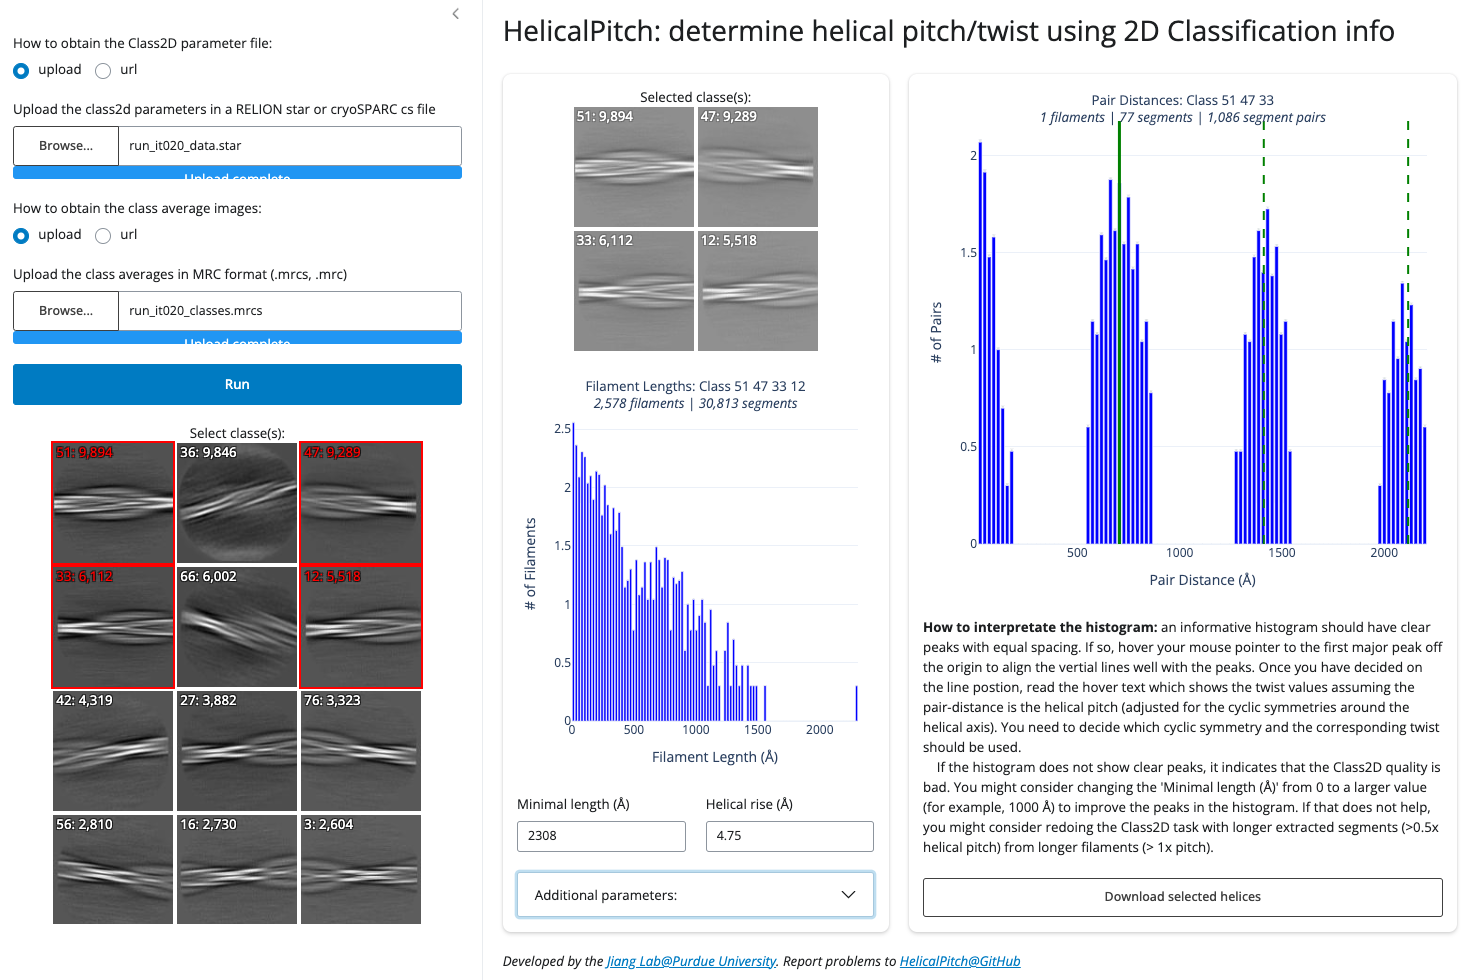
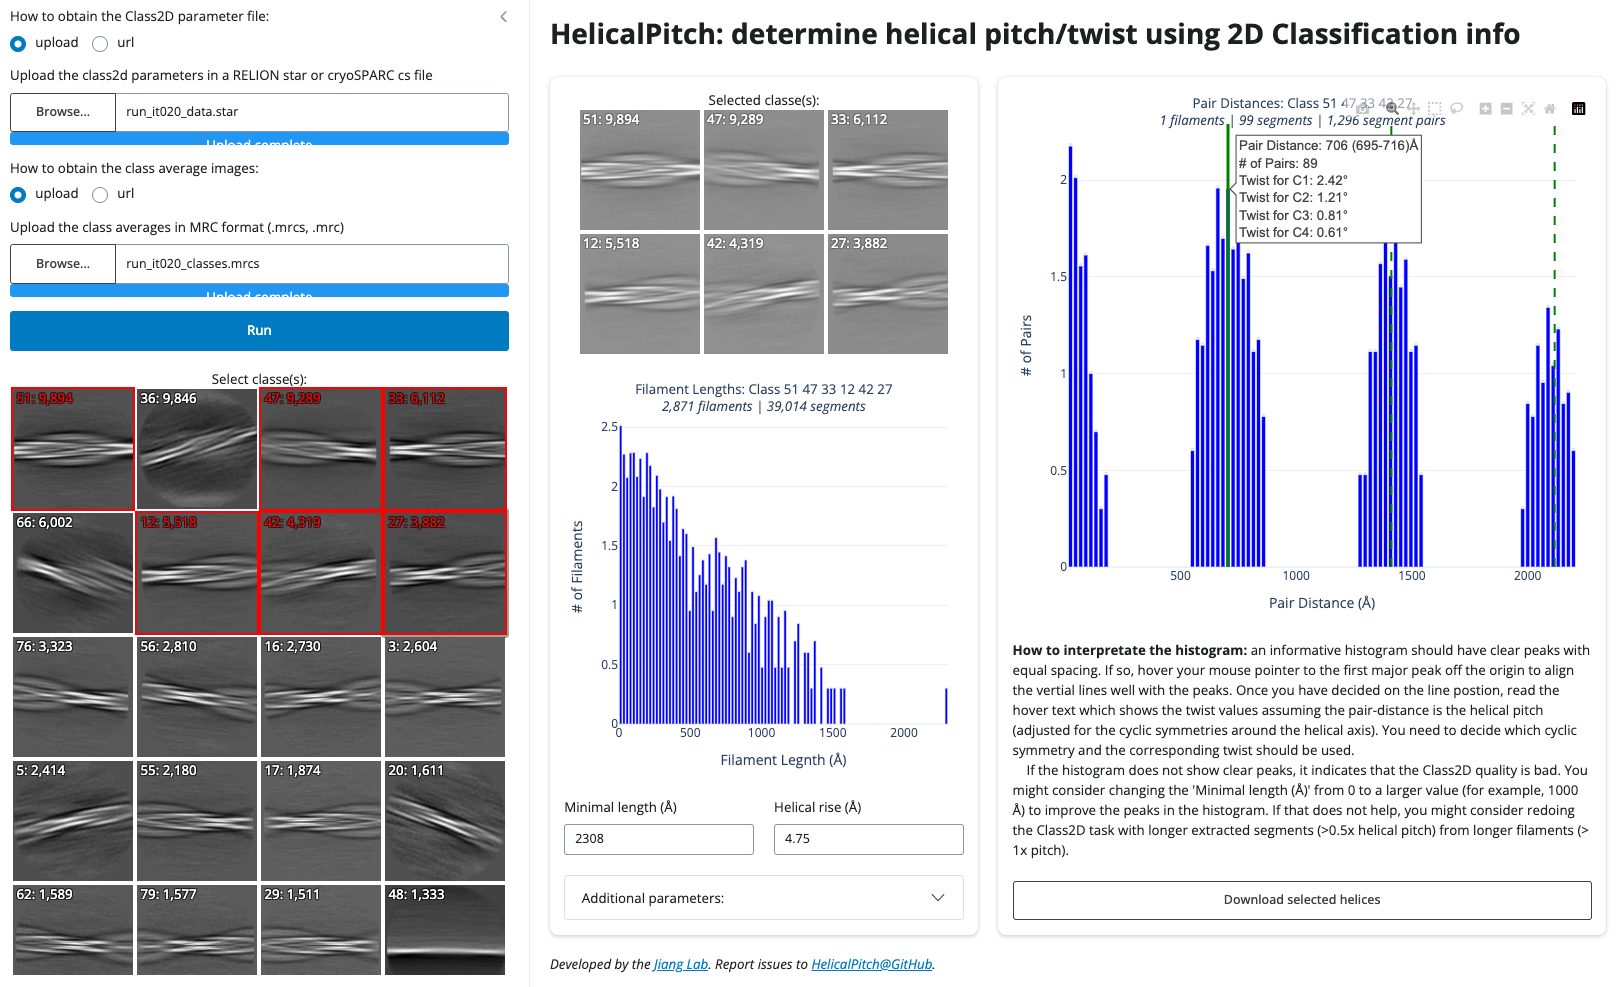
let image selector uses all vertical space in the sidebar

diff --git a/app.py b/app.py
@@ -31,6 +31,7 @@ compute.google_analytics(id="G-998MGRETTF")
 ui.tags.style(
     """
     * { font-size: 10pt; padding:0; border: 0; margin: 0; }
+    aside {--_padding-icon: 10px;}
     """
 )
 urls = {
@@ -41,54 +42,56 @@ urls = {
 }
 url_key = "empiar-10940_job010"
 
-with ui.sidebar(width="33vw"):
-    ui.input_radio_buttons(
-        "input_mode_params",
-        "How to obtain the Class2D parameter file:",
-        choices=["upload", "url"],
-        selected="url",
-        inline=True,
-    )
-    with ui.panel_conditional("input.input_mode_params === 'upload'"):
-        ui.input_file(
-            "upload_params",
-            "Upload the class2d parameters in a RELION star or cryoSPARC cs file",
-            accept=[".star", ".cs"],
-            placeholder="star or cs file",
+with ui.sidebar(width="33vw", style="display: flex; flex-direction: column; height: 100%;"):
+    with ui.div(id="input_files", style="flex-shrink: 0;"):
+        ui.input_radio_buttons(
+            "input_mode_params",
+            "How to obtain the Class2D parameter file:",
+            choices=["upload", "url"],
+            selected="url",
+            inline=True,
+        )
+        with ui.panel_conditional("input.input_mode_params === 'upload'"):
+            ui.input_file(
+                "upload_params",
+                "Upload the class2d parameters in a RELION star or cryoSPARC cs file",
+                accept=[".star", ".cs"],
+                placeholder="star or cs file",
+            )
+
+        with ui.panel_conditional("input.input_mode_params === 'url'"):
+            ui.input_text(
+                "url_params",
+                "Download URL for a RELION star or cryoSPARC cs file",
+                value=urls[url_key][0],
+            )
+
+        ui.input_radio_buttons(
+            "input_mode_classes",
+            "How to obtain the class average images:",
+            choices=["upload", "url"],
+            selected="url",
+            inline=True,
         )
 
-    with ui.panel_conditional("input.input_mode_params === 'url'"):
-        ui.input_text(
-            "url_params",
-            "Download URL for a RELION star or cryoSPARC cs file",
-            value=urls[url_key][0],
-        )
+        with ui.panel_conditional("input.input_mode_classes === 'upload'"):
+            ui.input_file(
+                "upload_classes",
+                "Upload the class averages in MRC format (.mrcs, .mrc)",
+                accept=[".mrcs", ".mrc"],
+                placeholder="mrcs or mrc file",
+            )
 
-    ui.input_radio_buttons(
-        "input_mode_classes",
-        "How to obtain the class average images:",
-        choices=["upload", "url"],
-        selected="url",
-        inline=True,
-    )
-    with ui.panel_conditional("input.input_mode_classes === 'upload'"):
-        ui.input_file(
-            "upload_classes",
-            "Upload the class averages in MRC format (.mrcs, .mrc)",
-            accept=[".mrcs", ".mrc"],
-            placeholder="mrcs or mrc file",
-        )
+        with ui.panel_conditional("input.input_mode_classes === 'url'"):
+            ui.input_text(
+                "url_classes",
+                "Download URL for a RELION or cryoSPARC Class2D output mrc(s) file",
+                value=urls[url_key][1],
+            )
 
-    with ui.panel_conditional("input.input_mode_classes === 'url'"):
-        ui.input_text(
-            "url_classes",
-            "Download URL for a RELION or cryoSPARC Class2D output mrc(s) file",
-            value=urls[url_key][1],
-        )
+        ui.input_task_button("run", label="Run", style="width: 100%;")
 
-    ui.input_task_button("run", label="Run")
-
-    with ui.div(style="max-height: 50vh; overflow-y: auto;"):
+    with ui.div(id="class-selection", style="flex-grow: 1; overflow-y: auto;"):
         selected_image_indices = compute.image_select(
             id="select_classes",
             label="Select classe(s):",
@@ -110,7 +113,7 @@ with ui.sidebar(width="33vw"):
 
 
 title = "HelicalPitch: determine helical pitch/twist using 2D Classification info"
-ui.h1(title)
+ui.h1(title, style="font-weight: bold;")
 
 with ui.layout_columns(col_widths=(5, 7, 12)):
     with ui.card():
@@ -306,8 +309,8 @@ with ui.layout_columns(col_widths=(5, 7, 12)):
             else:
                 return None
 
-    ui.markdown(
-        "*Developed by the [Jiang Lab@Purdue University](https://jiang.bio.purdue.edu/HelicalPitch). Report problems to [HelicalPitch@GitHub](https://github.com/jianglab/HelicalPitch/issues)*"
+    ui.HTML(
+        "<i><p>Developed by the <a href='https://jiang.bio.purdue.edu/HelicalPitch' target='_blank'>Jiang Lab</a>. Report issues to <a href='https://github.com/jianglab/HelicalPitch/issues' target='_blank'>HelicalPitch@GitHub</a>.</p></i>"
     )
 
 
